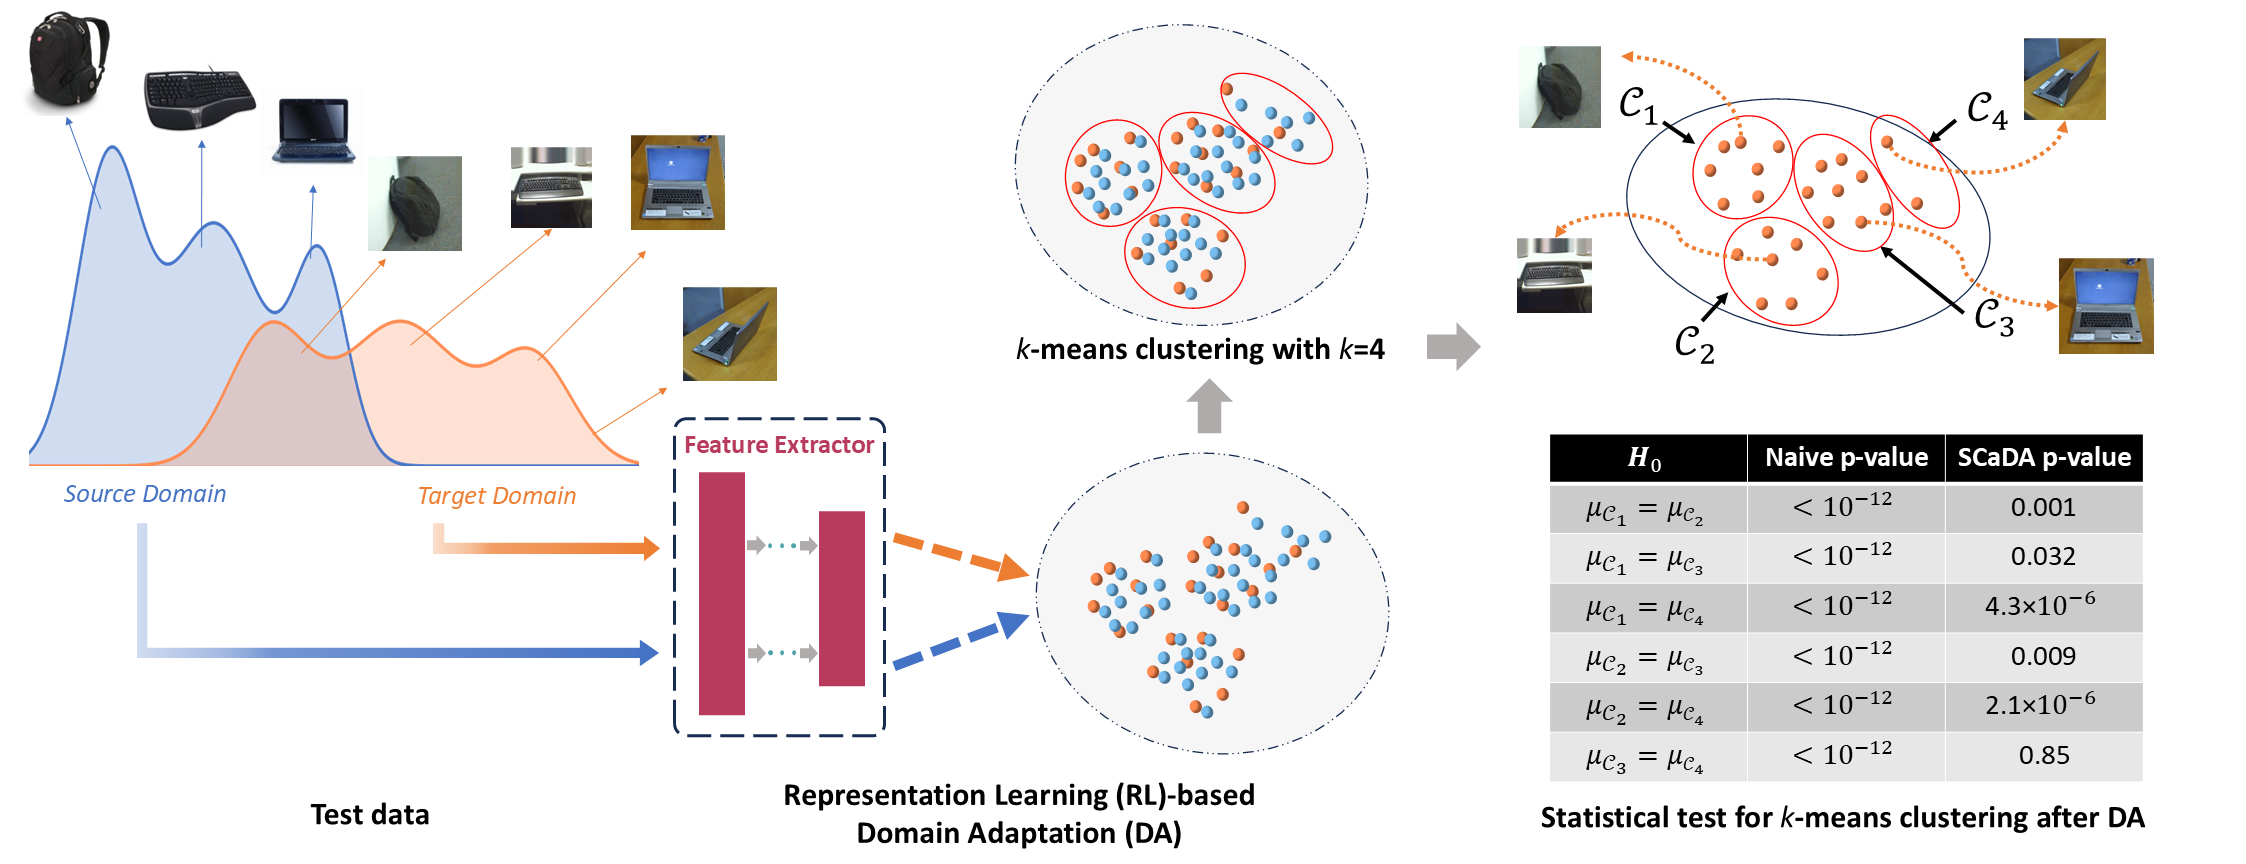
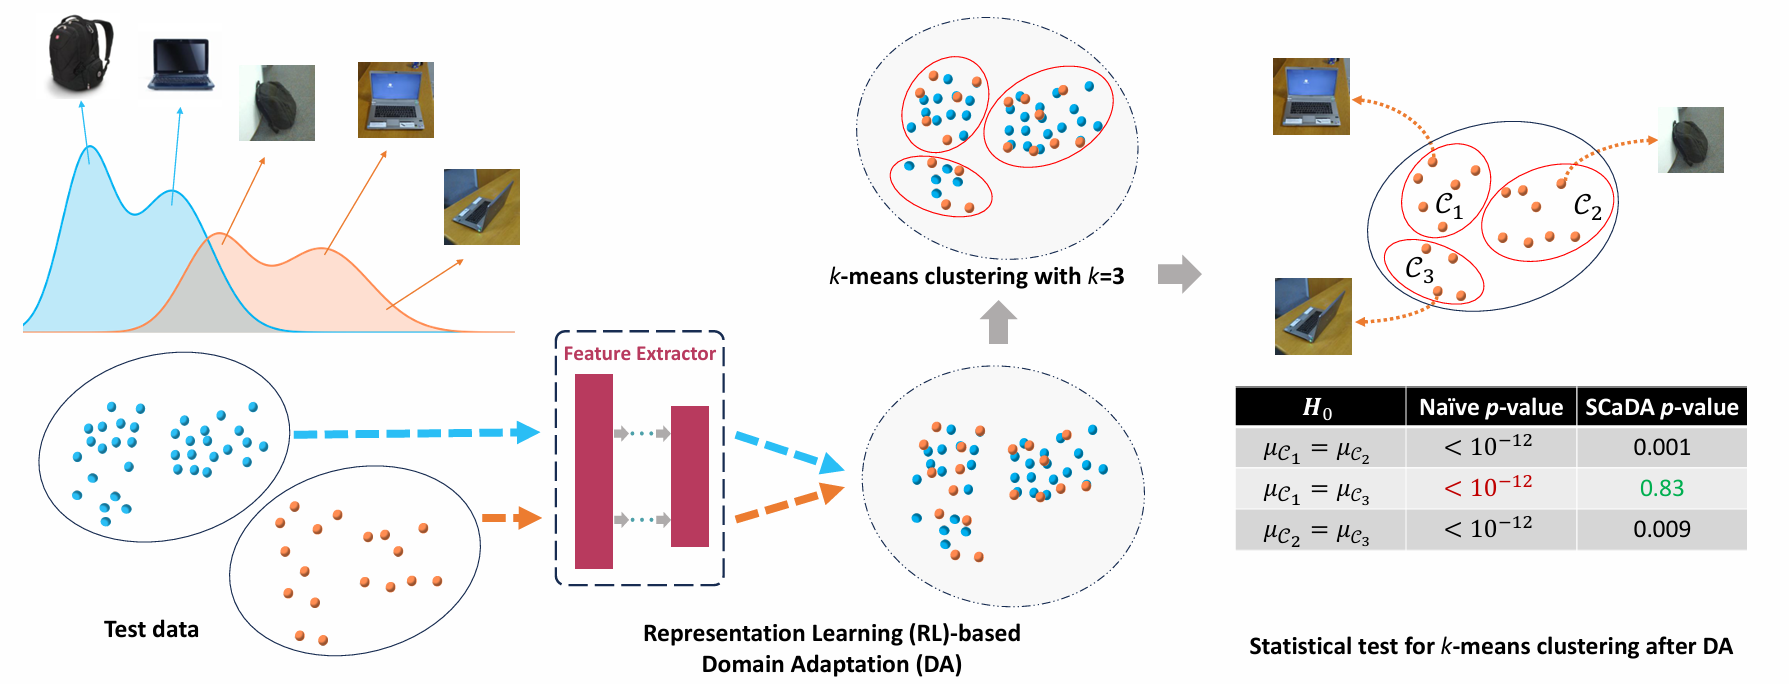
update readme

diff --git a/README.md b/README.md
@@ -6,7 +6,7 @@ This package provides a statistical inference framework for k-means clustering a
 Performing k-means clustering after DA can lead to erroneous clusters and misleadingly small naive p-values. SCaDA accurately distinguishes between False Positive (FP) and True Positive (TP) detections. It yields large p-values for FPs (erroneous clusters) and small p-values for TPs, correcting misleadingly small naive p-values.
 
 ![SCaDA Overview](images/Figure1.png)
-*Figure 1: Illustration of the proposed SCaDA method.*
+*Figure 1: Illustration of the proposed SCaDA method. The source (blue) and target (orange) domains are image datasets with different marginal distributions but share two common object categories.* 
 
 ### Divide and Conquer Strategy
 Proposed SCaDA method: RL-based DA and k-means clustering are followed by parameterizing the data along a test statistic to characterize the truncation region $Z$. Statistical inference is then conducted by conditioning on $Z$, using a divide-and-conquer strategy for enhanced computational tractability.
